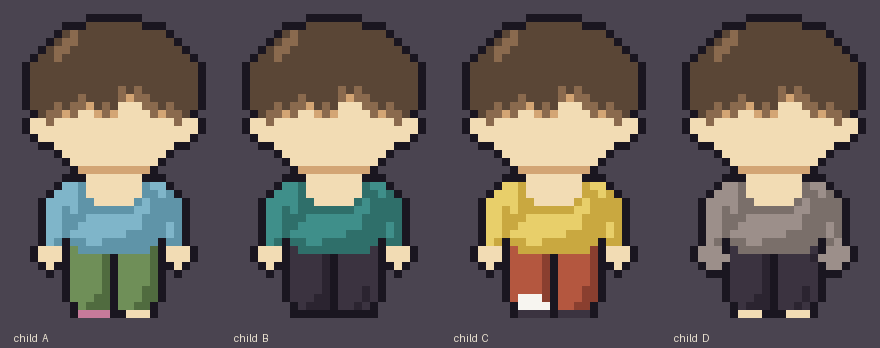
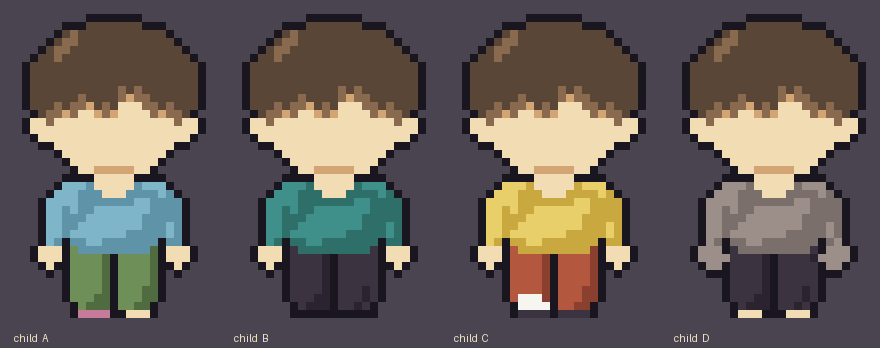
Protagonist: thinner shorter neck with a rounded crescent chin shadow
Claude-Session: https://claude.ai/code/session_01FPZSaKiVNU2zED737yZX4w

diff --git a/tools/gen_child6.py b/tools/gen_child6.py
@@ -36,7 +36,7 @@ def base_round(c, shirt, shorts, covered=False):
         if not covered: c.ell(12 + sgn * 7.8, 29.6, 1.5, 1.6, K.SKIN)
         c.ell(12 + sgn * 5.6, 23.6, 2.7, 2.7, shirt)                                                      # 둥근 어깨
     c.ell(12, 25.2, 6.8, 4.8, shirt); c.ell(12, 22.6, 6.4, 2.8, shirt)                                       # 몸통과 어깨 윗선
-    c.ell(12, 20.8, 3.4, 1.9, K.SKIN); c.ell(12, 21.8, 4.2, 1.4, shirt)                                       # 목과 둥근 목선
+    c.ell(12, 20.2, 2.5, 1.5, K.SKIN); c.ell(12, 21.6, 3.8, 1.3, shirt)                                       # 목과 둥근 목선
 
 SHADE = {'c': 'C', 't': 'T', 'y': 'Y', 'l': 'L', 'a': 'A', 'h': 'O', 'd': 's'}      # 옷/바지 색 -> 그늘 색
 
@@ -55,7 +55,7 @@ def crescent(c, base, shade, cx, cy, rx, ry, dx, dy):
 def shade_clothes(c, shirt, pants):
     """빛은 왼쪽 위. 몸의 둥근 형태를 따라 오른쪽 아래에 초승달 모양 그늘."""
     sh, ps = SHADE[shirt], SHADE[pants]
-    shade_on(c, K.SKIN, 'u', 12, 18.8, 4.4, 0.7)                                    # 턱 밑의 가는 그늘
+    crescent(c, K.SKIN, 'u', 12, 20.0, 2.6, 1.9, 0, -1.0)                          # 목 위쪽(턱 밑)의 둥근 초승달 그늘
     crescent(c, shirt, sh, 12, 25.2, 6.8, 4.8, 2.6, 1.9)                           # 몸통
     crescent(c, shirt, sh, 17.6, 23.6, 2.7, 2.7, 1.4, 1.1)                         # 오른쪽 어깨 덮개
     crescent(c, shirt, sh, 6.4, 23.6, 2.7, 2.7, 1.2, .9)                           # 왼쪽 어깨 덮개(약하게)
@@ -63,8 +63,8 @@ def shade_clothes(c, shirt, pants):
     for cx in (9.2, 14.8): crescent(c, pants, ps, cx, 32.0, 3.0, 5.2, 1.5, .8)         # 다리(오른쪽 아래가 어두움)
     for y in range(19, 26):                                                                                # 둥근 목선(U자): 안쪽은 살색, 바깥은 옷 그늘색 테두리
         for x in range(24):
-            d_out = ((x - 12) / 4.6) ** 2 + ((y - 21.4) / 3.2) ** 2
-            d_in = ((x - 12) / 3.2) ** 2 + ((y - 21.2) / 2.4) ** 2
+            d_out = ((x - 12) / 3.6) ** 2 + ((y - 21.2) / 2.6) ** 2
+            d_in = ((x - 12) / 2.4) ** 2 + ((y - 21.0) / 1.8) ** 2
             if d_in <= 1 and y >= 20 and c.g[y][x] in (shirt, sh, K.SKIN, 'u'): c.g[y][x] = K.SKIN
             elif d_out <= 1 and y >= 20 and c.g[y][x] in (shirt, sh): c.g[y][x] = sh
 
